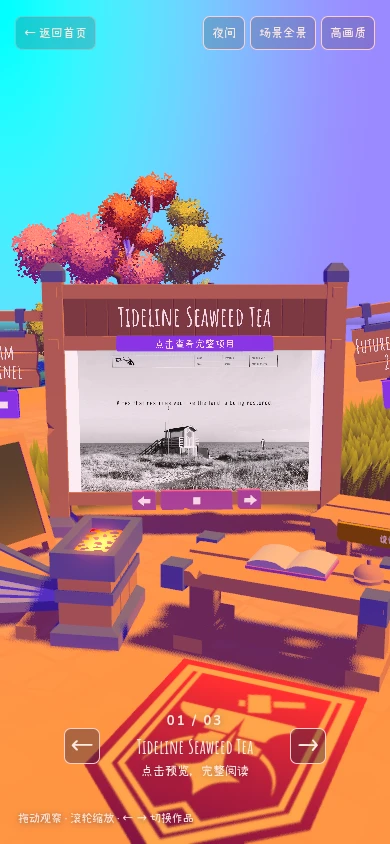
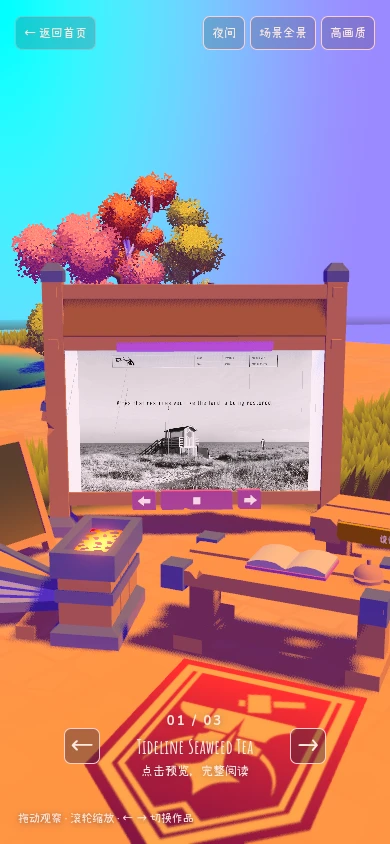
Initialize muted anvil audio and test animation cycle boundaries

diff --git a/experiments/bruno-projects/src/main.js b/experiments/bruno-projects/src/main.js
@@ -525,6 +525,9 @@ try {
     references: refs,
     state: ProjectsArea.STATE_OPEN,
     blackBoard: { active: false },
+    // Original update() plays this on every strike. Full spatial audio depends
+    // on the game's physics setup; this visual-only adapter remains silent.
+    sounds: { anvil: silent },
   });
   for (const method of [
     "setCinematic",
@@ -764,6 +767,7 @@ try {
       console.error(error);
       $("loading").hidden = true;
       $("fallback").hidden = false;
+      $("fallback-title").textContent = "场景运行暂时中断";
       $("error-message").textContent = "渲染中断：" + error.message;
       document.body.dataset.failed = "true";
     }

diff --git a/experiments/bruno-projects/index.html b/experiments/bruno-projects/index.html
@@ -36,7 +36,7 @@
       <span>拖动观察 · 滚轮缩放 · ← → 切换作品</span>
     </footer>
     <section id="fallback" hidden>
-      <h2>当前设备未能启动 3D 预览</h2>
+      <h2 id="fallback-title">暂时无法显示 3D 场景</h2>
       <p id="error-message"></p>
       <a href="../tideline.html">Tideline ↗</a
       ><a href="../gazette.html">Future Gazette ↗</a

diff --git a/BRUNO_PREVIEW_PROGRESS.md b/BRUNO_PREVIEW_PROGRESS.md
@@ -46,3 +46,10 @@
 - 移除整个左上角介绍块；缩小界面中文提示和角色内容，阅读木牌中文缩小约三分之一并增加留白；角色／地点／合作标签略放大，设计档案标签缩小。
 - 不改变模型、光影、相机、交互、主站导航和原项目正文。
 - 本次生产构建和两组浏览器回归均已通过：确认左上角块移除、小赖字体加载、阅读牌字号和留白；三件作品阅读／返回、切换、日夜、手机双指和失败回退正常，无页面错误或 404。更新日间／夜间／手机真实截图至 `public/review/`。
+
+## 铁砧动画运行时中断修复
+
+- 用户实机反馈运行后出现 `this.sounds.anvil` 未定义：适配器未调用 `setSounds()`，原版动画每次跨过敲击边界会访问缺失的音效对象。
+- 新增 `tests/bruno-animation.cjs`，在原构建上已确定性复现同一错误。修复为显式将 `sounds.anvil` 初始化为已有静音对象，不加载音频或改变样式；原版空间音效初始化依赖完整物理场景，不在此适配器直接启用。
+- 新测试跨越四次敲击边界，并覆盖显式 WebGL、默认渲染器、继续渲染、作品切换和阅读返回；普通回归新增控制台错误和末尾失败状态检查。异常提示不再将程序中断归咎于设备。
+- 修复后的动画专项（两种渲染选择方式）、完整展示区回归、主站路由回归全部通过；实际触发四次敲击后无控制台错误，渲染持续，三件作品阅读、日夜和手机双指正常。字体、模型、相机和原项目正文未改。

diff --git a/experiments/bruno-projects/README.md b/experiments/bruno-projects/README.md
@@ -30,3 +30,4 @@
 
 原作品静态服务运行后，在站点根目录执行 `node tests/bruno-preview.cjs`。开发测试依赖 Playwright 和 Chromium，不进入线上运行依赖。
 入口回归执行 `node tests/portfolio-routing.cjs`。
+动画回归执行 `node tests/bruno-animation.cjs`：直接跨越四次铁砧敲击边界，验证静音对象已初始化、渲染继续运行、作品切换和阅读返回正常。覆盖显式 WebGL 和默认自动选择渲染器，避免低帧率测试机尚未到达敲击时刻而漏报。
